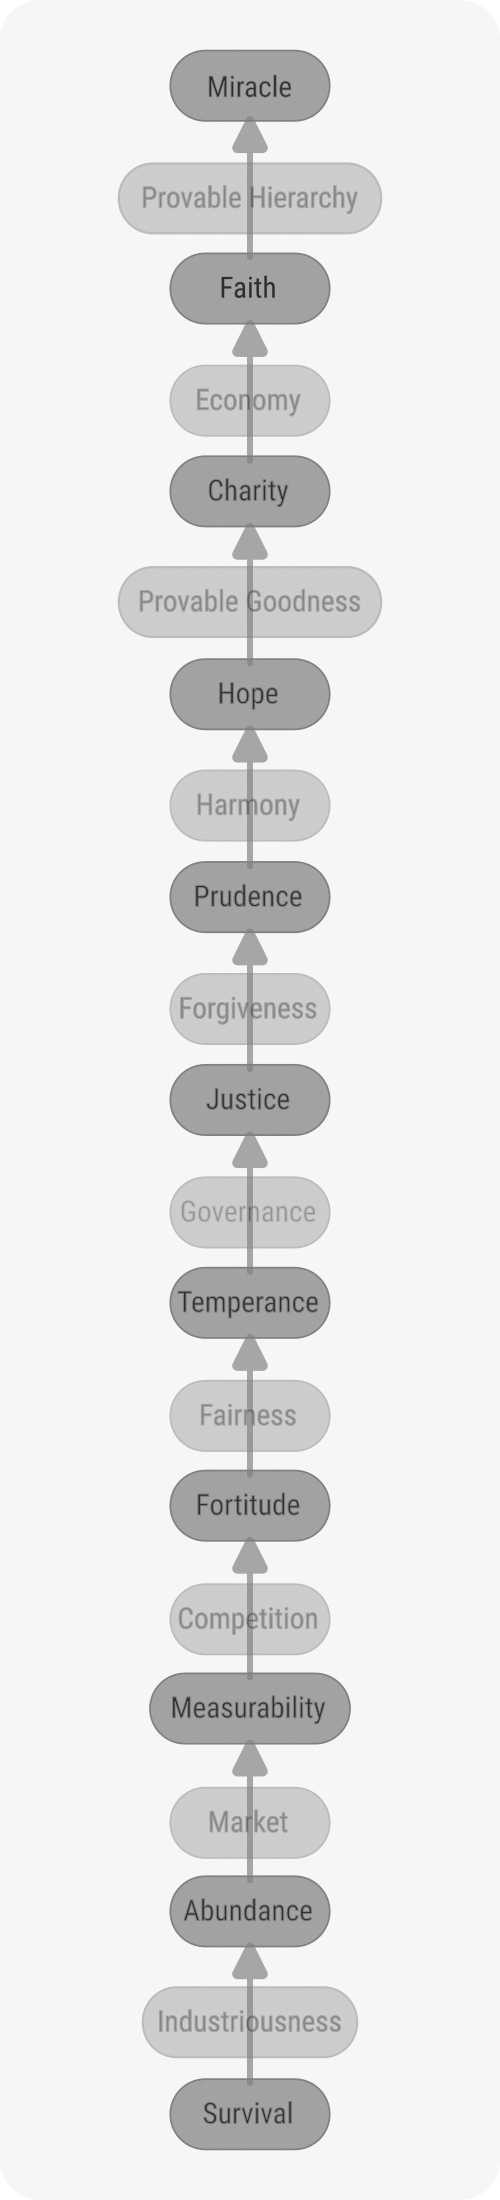
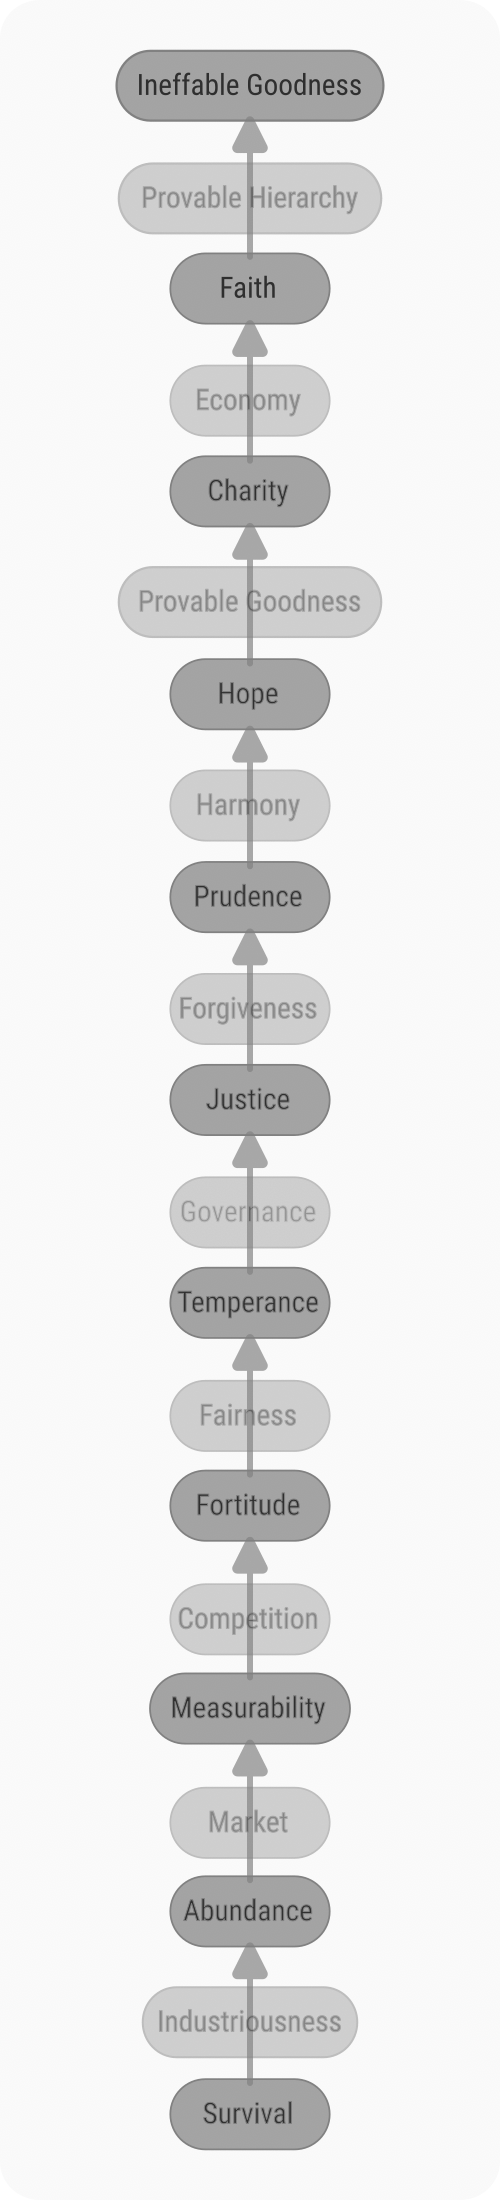
ineffable goodness

Changed region(s): [[0.21, 0.0, 0.78, 0.0618]]

diff --git a/docs/virtues_whole.md b/docs/virtues_whole.md
@@ -96,7 +96,7 @@ We accept these definitions of virtue:
 
 | No | Dimensions\Ranges | Lacking | Mean | Excess |
 |----|-------------------|---------|------|--------|
-|  1 | Proof beyound reason | Trick |[Miracle](miracle.md) | Magic |
+|  1 | Proof beyound reason | No proof or No Goodness|[Ineffable Goodness](ineffable_goodness.md) | Transgressions |
 |  2 | Orderliness | Inability to Rank | [Provable Order/Hierarchy](order.md)| Rigidity |
 |  3 | Truth Acceptance |Cinicism| [Faith, Reason](reason/index.md) | Credulity |
 |  4 | Management of Goodness | No Management | [Economy](economy.md) | Accounting too strictly |
@@ -138,7 +138,7 @@ We accept these definitions of virtue:
 
 | No. |                       Virtue              \ Level         |    1    |     2   |    3    |
 |-----|-----------------------------------------------------------|---------|---------|---------|
-|   1 | [Miracle](miracle.md)                                     | 1I Assurance | 2I Insurance | aIT Religion |
+|   1 | [Ineffable Goodness](ineffable_goodness.md)                                     | 1I Assurance | 2I Insurance | aIT Religion |
 |   2 | [Provable Order/Hierarchy](order.md)                      | 1I Rectitude | 2I Friendship | aIT Ethics |
 |   3 | [Faith, Reason](reason/index.md)                                 | 2I |  |  |
 |   4 | [Economy](economy.md)                                     | 3I |  |  |
@@ -394,84 +394,6 @@ We accept these definitions of virtue:
         1. Fortitude
     1. modesty (让; ràng)
         1. Prudence
-
-
----
-
-
-# Miracle, Proof Beyond Reason
-
-## Definition
-
-- an reordering of virtues, based on inconvertible proof
-- shaktipat
-- it always comes with a clear explanation of what was proven
-- it has to prove it's own goodness
-- spiritual transmission of a tradition beyond words
-- unexplainable beauty
-- the discovery of an universal theory that changes the foundations of what was known before, without much priors
-
-### Qualitatively
-A virtue has to be considered using the following criteria:
-1. [x] Is as atomic as possible.
-
-| \                                   | Diminish | Addition | Synergy  |
-|-------------------------------------|----------|----------|----------|
-|[Miracle](miracle.md)                |    [x]   |    [x]   |    [x]   |
-|[Provable Order](order.md)           |    [x]   |    [x]   |    [x]   |
-|[Faith, Reason](reason/index.md)            |    [x]   |    [x]   |    [x]   |
-|[Economy](economy.md)                |    [x]   |    [x]   |    [x]   |
-|[Charity](charity.md)                |    [x]   |    [x]   |    [x]   |
-|[Goodness, Sacrifice](goodness.md)   |    [x]   |    [x]   |    [x]   |
-|[Hope](hope.md)                      |    [x]   |    [x]   |    [x]   |
-|[Harmony, Generosity](harmony.md)    |    [x]   |    [x]   |    [x]   |
-|[Prudence](prudence.md)              |    [x]   |    [x]   |    [x]   |
-|[Forgiveness](forgiveness.md)        |    [x]   |    [x]   |    [x]   |
-|[Justice](justice.md)                |    [x]   |    [x]   |    [x]   |
-|[Governance](governance.md)          |    [x]   |    [x]   |    [x]   |
-|[Temperance](temperance.md)          |    [x]   |    [x]   |    [x]   |
-|[Fairness](fairness.md)              |    [x]   |    [x]   |    [x]   |
-|[Fortitude](fortitude.md)            |    [x]   |    [x]   |    [x]   |
-|[Competition](competition.md)        |    [x]   |    [x]   |    [x]   |
-|[Measurability](measurability.md)    |    [x]   |    [x]   |    [x]   |
-|[Market](market.md)                  |    [x]   |    [x]   |    [x]   |
-|[Abundance](abundance.md)            |    [x]   |    [x]   |    [x]   |
-|[Industriousness](industriousness.md)|    [x]   |    [x]   |    [x]   |
-|[Survival](survival.md)              |    [x]   |    [x]   |    [x]   |
-
-|     \     | Individual | Group | Universe |
-| ----------|------------|-------|----------|
-| Immediate |    [x]     |  [x]  |   [x]    |
-| Long-Term |    [x]     |  [x]  |   [x]    |
-| Past      |    [x]     |  [x]  |   [x]    |
-
-- [x] On the dimension of measure: lack or be in excess in most cases.
-1. [x] Existence of instantiation:
-    1. [x] The miracles of Jesus, Moses
-    1. [x] Most people cannot perform miracles
-1. Indirection, definition:
-    1. [x] To have a name, concept: Miracle
-    1. [ ] To have a signifier, flag, symbol
-    1. To be explained by ritualistic act
-    1. To be explained by artistic depiction
-
-### Quantitatively
-
-|           |                     |
-|-----------|---------------------|
-| Dimension | Proof beyond reason |
-| Lacking   | Trick               |
-| Mean      | Miracle             |
-| Excess    | Magic               |
-
-## Correspondences
-
-- Christianity: the miracles of Jesus' Resurection and his apostles' Great Commission
-- Islam: the reception of The Quran by Muhammad
-- Judaism: reception of The Decalogue by Moses
-- Hinduism: Shaktipata
-- Science: the discoveries that fundamentaly change the whole understanding. Such as those by Albert Einstein.
-
 
 
 ---
@@ -1312,7 +1234,7 @@ Then Bailey decides to forgive Alex and gives Alex the money back.
 
 ### Virtues Order
 
-1. [Miracle](miracle.md)
+1. [Ineffable Goodness](ineffable_goodness.md)
 1. [Provable Order/Hierarchy](order.md)
 1. [Faith, Reason](reason/index.md)
 1. [Economy](economy.md)
@@ -1338,9 +1260,9 @@ The evolution can be [narrated](scenarios/narratives.md).
 
 ## Types of Resources
 
-### Proof - Universality, Beyond Species
+### Ethos - Universality, Beyond Species
 
-1. Miracle
+1. Ineffable Goodness
 1. Provable Order/Hierarchy
 1. Faith, Reason
 1. Economy
@@ -1372,7 +1294,7 @@ The evolution can be [narrated](scenarios/narratives.md).
 
 ## Links with Knowledge Domains
 
-1. Miracle
+1. Ineffable Goodness
 1. Provable Order/Hierarchy
 1. Faith, Reason
     - Mathematics
@@ -1487,6 +1409,7 @@ The evolution can be [narrated](scenarios/narratives.md).
 
 1. [Sahasrara](https://en.wikipedia.org/wiki/Sahasrara)
     - (beyond concepts)
+    - Ineffable Goodness
 1. [Ajna](https://en.wikipedia.org/wiki/Ajna)
     - Provable Hierarchy
     - Faith, Reason
@@ -3835,7 +3758,7 @@ There are two types of gratitude:
 
 ### To VIA: 
 
-1. [Miracle](miracle.md)
+1. [Ineffable Goodness](ineffable_goodness.md)
 1. [Economy](economy.md)
 1. [Charity](charity.md)
 1. [Forgiveness](forgiveness.md)
@@ -3845,6 +3768,7 @@ There are two types of gratitude:
 1. [Survival](survival.md)
 
 [back](../)
+
 
 ---
 
@@ -3857,3 +3781,4 @@ Other systems and Theories of Virtue.
 [back](../)
 
 ---
+

diff --git a/docs/ineffable_goodness.md b/docs/ineffable_goodness.md
@@ -1,18 +1,18 @@
 ---
 layout: default
-title: 1. Miracle
+title: 1. Ineffable Goodness
 sidebar_position: 2
-description: Understand Miracle - proof beyond reason and transcendent truth. Explore the supreme virtue of the miraculous, divine intervention, and faith beyond logic in virtue ethics and theology.
-keywords: [miracle, divine, transcendent, proof beyond reason, supreme virtues, faith, theology, virtue ethics, moral philosophy, divine intervention]
+description: Understand Ineffable Goodness - proof beyond reason and transcendent truth. Explore the supreme virtue of the miraculous, divine intervention, and faith beyond logic in virtue ethics and theology.
+keywords: [ineffable, goodness, divine, transcendent, good beyond reason, supreme virtues, faith, theology, virtue ethics, moral philosophy, divine intervention]
 ---
 
-# Miracle, Proof Beyond Reason
+# Ineffable Goodness, Good Beyond Reason
 
 
 ## Definition
 
 
-- an reordering of virtues, based on inconvertible proof
+- a reordering of virtues, based on inconvertible proof
 - shaktipat
 - it always comes with a clear explanation of what was proven
 - it has to prove it's own goodness
@@ -26,7 +26,7 @@ A virtue has to be considered using the following criteria:
 
 | \                                   | Diminish | Addition | Synergy  |
 |-------------------------------------|----------|----------|----------|
-|[Miracle](miracle.md)                |    [x]   |    [x]   |    [x]   |
+|[Ineffable Goodness](ineffable_goodness.md)                |    [x]   |    [x]   |    [x]   |
 |[Provable Order](order.md)           |    [x]   |    [x]   |    [x]   |
 |[Faith, Reason](reason/index.md)            |    [x]   |    [x]   |    [x]   |
 |[Economy](economy.md)                |    [x]   |    [x]   |    [x]   |
@@ -61,7 +61,7 @@ A virtue has to be considered using the following criteria:
     1. [x] The miracles of Jesus, Moses
     1. [x] Most people cannot perform miracles
 1. Indirection, definition:
-    1. [x] To have a name, concept: Miracle
+    1. [x] To have a name, concept: Ineffable Goodness
     1. [ ] To have a signifier, flag, symbol
     1. To be explained by ritualistic act
     1. To be explained by artistic depiction
@@ -70,10 +70,10 @@ A virtue has to be considered using the following criteria:
 
 |           |                     |
 |-----------|---------------------|
-| Dimension | Proof beyond reason |
-| Lacking   | Trick               |
-| Mean      | Miracle             |
-| Excess    | Magic               |
+| Dimension | Good beyond reason |
+| Lacking   | No Goodness / Not Provable |
+| Mean      | Ineffable Goodness  |
+| Excess    | Transgression of natural laws or economy             |
 
 ## Correspondences
 

diff --git a/docs/virtues.md b/docs/virtues.md
@@ -54,7 +54,7 @@ We accept these definitions of virtue:
 
 | No | Dimensions\Ranges | Lacking | Mean | Excess |
 |----|-------------------|---------|------|--------|
-|  1 | Proof beyound reason | Trick |[Miracle](miracle.md) | Magic |
+|  1 | Proof beyound reason | No proof or No Goodness|[Ineffable Goodness](ineffable_goodness.md) | Transgressions |
 |  2 | Orderliness | Inability to Rank | [Provable Order/Hierarchy](order.md)| Rigidity |
 |  3 | Truth Acceptance |Cinicism| [Faith, Reason](reason/index.md) | Credulity |
 |  4 | Management of Goodness | No Management | [Economy](economy.md) | Accounting too strictly |
@@ -98,7 +98,7 @@ We accept these definitions of virtue:
 
 | No. |                       Virtue              \ Level         |    1    |     2   |    3    |
 |-----|-----------------------------------------------------------|---------|---------|---------|
-|   1 | [Miracle](miracle.md)                                     | 1I Assurance | 2I Insurance | aIT Religion |
+|   1 | [Ineffable Goodness](ineffable_goodness.md)                                     | 1I Assurance | 2I Insurance | aIT Religion |
 |   2 | [Provable Order/Hierarchy](order.md)                      | 1I Rectitude | 2I Friendship | aIT Ethics |
 |   3 | [Faith, Reason](reason/index.md)                                 | 2I |  |  |
 |   4 | [Economy](economy.md)                                     | 3I |  |  |

diff --git a/docs/hierarchies.md b/docs/hierarchies.md
@@ -16,7 +16,7 @@ image: /images/virtues-hier.png
 
 ### Virtues Order
 
-1. [Miracle](miracle.md)
+1. [Ineffable Goodness](ineffable_goodness.md)
 1. [Provable Order/Hierarchy](order.md)
 1. [Faith, Reason](reason/index.md)
 1. [Economy](economy.md)
@@ -44,7 +44,7 @@ The evolution can be [narrated](scenarios/narratives.md).
 
 ### Ethos - Universality, Beyond Species
 
-1. Miracle
+1. Ineffable Goodness
 1. Provable Order/Hierarchy
 1. Faith, Reason
 1. Economy
@@ -78,7 +78,7 @@ The evolution can be [narrated](scenarios/narratives.md).
 
 ## Links with Knowledge Domains
 
-1. Miracle
+1. Ineffable Goodness
 1. Provable Order/Hierarchy
 1. Faith, Reason
     - Mathematics
@@ -194,6 +194,7 @@ The evolution can be [narrated](scenarios/narratives.md).
 
 1. [Sahasrara](https://en.wikipedia.org/wiki/Sahasrara)
     - (beyond concepts)
+    - Ineffable Goodness
 1. [Ajna](https://en.wikipedia.org/wiki/Ajna)
     - Provable Hierarchy
     - Faith, Reason

diff --git a/docs/scenarios/miracle.md b/docs/scenarios/miracle.md
@@ -1,15 +1,15 @@
 ---
 layout: default
-title: Miracle
+title: Ineffable Goodness
 sidebar_position: 1
-description: Explore scenarios and narratives illustrating the virtue of Miracle. Learn through practical examples of transcendent experiences and proof beyond reason.
-keywords: [miracle scenarios, narrative examples, transcendent experiences, virtue scenarios, practical ethics, applied virtue ethics]
+description: Explore scenarios and narratives illustrating the virtue of Ineffable Goodness. Learn through practical examples of transcendent experiences and proof beyond reason.
+keywords: [Ineffable Goodness, scenarios, narrative examples, transcendent experiences, virtue scenarios, practical ethics, applied virtue ethics]
 ---
 [back](./)
 
-# Miracle
+# Ineffable Goodness
 
-Description and [definition](../miracle.md).
+Description and [definition](../ineffable_goodness.md).
 
 ## Scenario
 

diff --git a/docs/scenarios/index.md b/docs/scenarios/index.md
@@ -52,7 +52,7 @@ We choose T: Taylor as the main actor and R: Riley as the main antagonist. A: Al
 
 ## Virtues
 
-1. [Miracle](../miracle.md)
+1. [Ineffable Goodness](../ineffable_goodness.md)
 1. [Provable Order/Hierarchy](../order.md)
 1. [Faith, Reason](../reason/index.md)
 1. [Economy](../economy.md)

diff --git a/docs/systems/via.md b/docs/systems/via.md
@@ -475,7 +475,7 @@ There are two types of gratitude:
 
 ### To VIA: 
 
-1. [Miracle](miracle.md)
+1. [Ineffable Goodness](ineffable_goodness.md)
 1. [Economy](economy.md)
 1. [Charity](charity.md)
 1. [Forgiveness](forgiveness.md)
